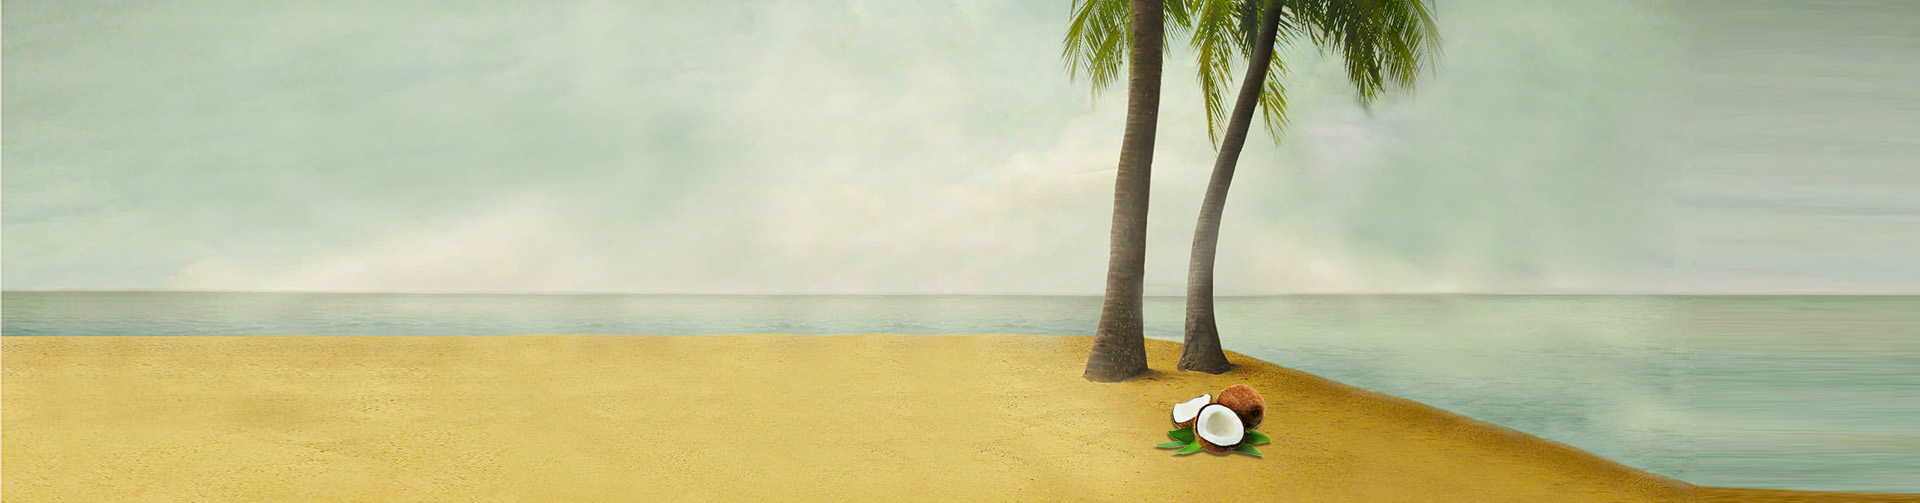
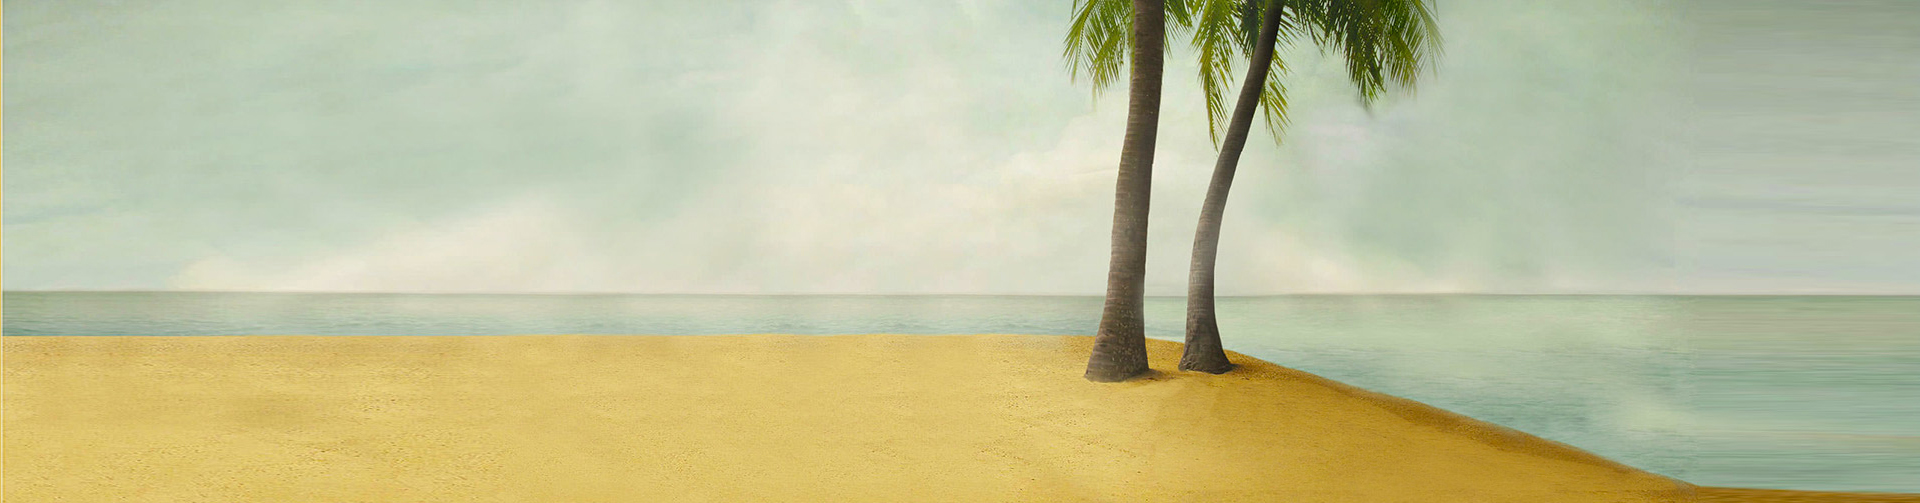
home slider images updated
and also text transformation for smaller devices has been removed

Changed region(s): [[0.5312, 0.0, 0.75, 0.2982], [0.5938, 0.6859, 0.6875, 0.9245]]

diff --git a/beta/css/removetrans.css b/beta/css/removetrans.css
@@ -1,0 +1,6 @@
+@media screen and (max-width: 500px) {
+	.description {
+		visibility: hidden;
+		opacity: 0.2;
+	}
+}

diff --git a/beta/php/rs-slider.php b/beta/php/rs-slider.php
@@ -5,8 +5,8 @@
 		<li data-delay="15000" data-transition="fade" data-slotamount="7" data-masterspeed="1000">
 		  <div class="elements">
 			<div class="tp-caption lfl"
-			  data-x="140"
-			  data-y="160"
+			  data-x="120"
+			  data-y="175"
 			  data-speed="1000"
 			  data-start="1500"
 			  data-easing="Power4.easeOut"
@@ -17,8 +17,8 @@
 			</div>
 			
 			<div class="tp-caption lft"
-			  data-x="380"
-			  data-y="160"
+			  data-x="328"
+			  data-y="172"
 			  data-speed="1000"
 			  data-start="1000"
 			  data-easing="Power4.easeOut"
@@ -28,8 +28,8 @@
 			</div>
 			
 			<div class="tp-caption lft"
-			  data-x="260"
-			  data-y="160"
+			  data-x="215"
+			  data-y="172"
 			  data-speed="1000"
 			  data-start="1200"
 			  data-easing="Power4.easeOut"
@@ -50,8 +50,8 @@
 			</div>
 			
 			<div class="tp-caption lfb"
-			  data-x="500"
-			  data-y="78"
+			  data-x="429"
+			  data-y="173"
 			  data-speed="1000"
 			  data-start="1800"
 			  data-easing="Power4.easeOut"
@@ -59,6 +59,17 @@
 			  data-endeasing="Power1.easeIn"
 			  style="z-index: 4">
 			  <img src="img/content/slider/rs-slider4-img10.png" alt="">
+			</div>
+			<div class="tp-caption lfb"
+			  data-x="510"
+			  data-y="175"
+			  data-speed="1000"
+			  data-start="1800"
+			  data-easing="Power4.easeOut"
+			  data-endspeed="500"
+			  data-endeasing="Power1.easeIn"
+			  style="z-index: 4">
+			  <img src="img/content/slider/alore-almond-milk.png" alt="">
 			</div>
 			
 			<div class="tp-caption lfl"
@@ -258,7 +269,7 @@
 			<div class="tp-caption lfb skewtobottom customin"
 			  data-x="right"
 			  data-hoffset="-340"
-			  data-y="50"
+			  data-y="150"
 			  data-customin="x:0;y:0;z:0;rotationX:0;rotationY:0;rotationZ:-360;scaleX:0;scaleY:0;skewX:0;skewY:0;opacity:0;transformPerspective:600;transformOrigin:50% 50%;"
 			  data-speed="1000"
 			  data-start="1000"
@@ -349,7 +360,7 @@
 			  data-easing="Back.easeInOut"
 			  data-endspeed="400"
 			  data-endeasing="Power1.easeIn">
-			  <p>
+			  <p style="color: blue;">
 			  Coconuts are rare fruits that are an excellent<br>
 			   source of nutrients and coconut water is an<br>
 			    amazing thirst quencher. 
@@ -448,8 +459,8 @@
 		<li data-delay="15000" data-transition="fade" data-slotamount="7" data-masterspeed="1000">
 		  <div class="elements">
 			<div class="tp-caption lft"
-			  data-x="150"
-			  data-y="155"
+			  data-x="130"
+			  data-y="170"
 			  data-speed="1000"
 			  data-start="1500"
 			  data-easing="Power4.easeOut"

diff --git a/beta/php/header.php b/beta/php/header.php
@@ -16,7 +16,8 @@
   <link rel='stylesheet' href="css/style.css">
   <link rel='stylesheet' href="css/responsive.css">
   <link rel='stylesheet' href="css/pages.css">
-  <link rel='stylesheet' href="css/style1.css">  
+  <link rel='stylesheet' href="css/style1.css">
+  <link rel='stylesheet' href="css/removetrans.css">  
   <!--[if IE]>
 	<link rel='stylesheet' href="css/ie/ie.css">
     <script src="//html5shiv.googlecode.com/svn/trunk/html5.js"></script>
